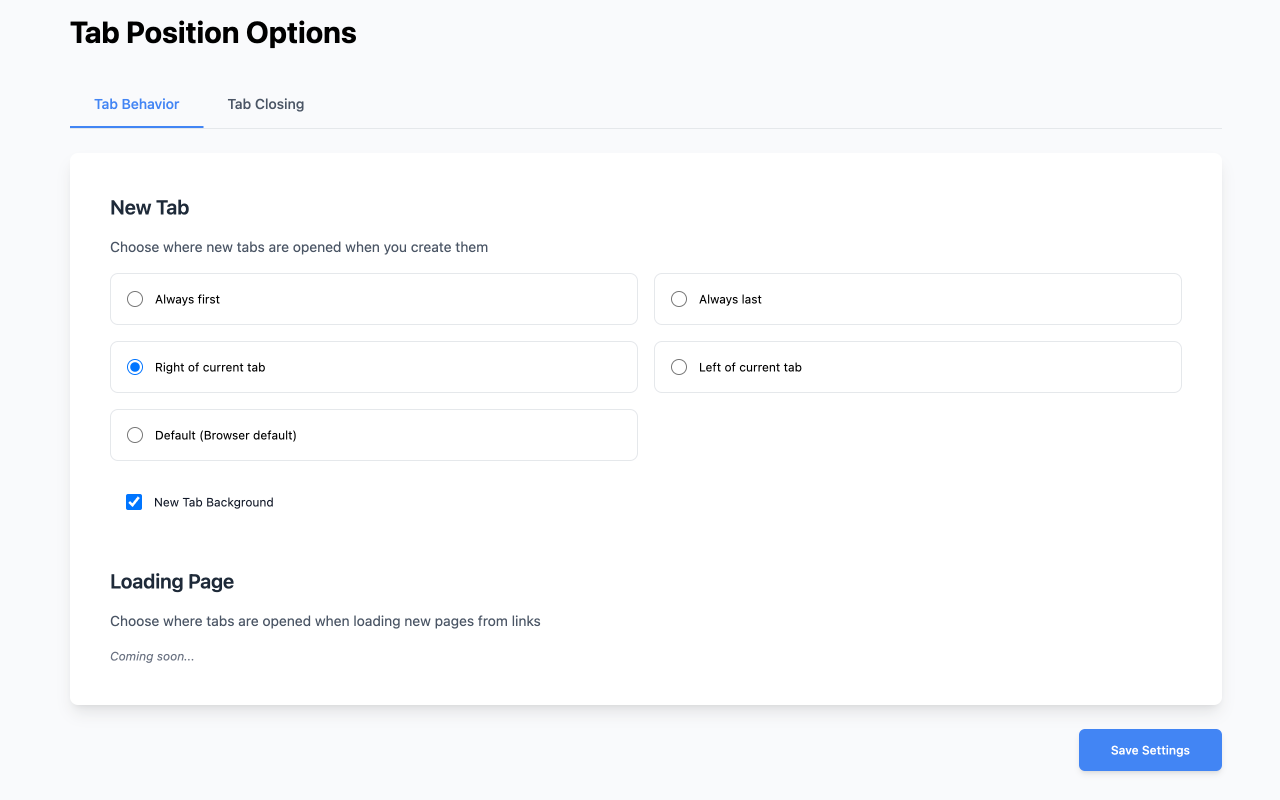
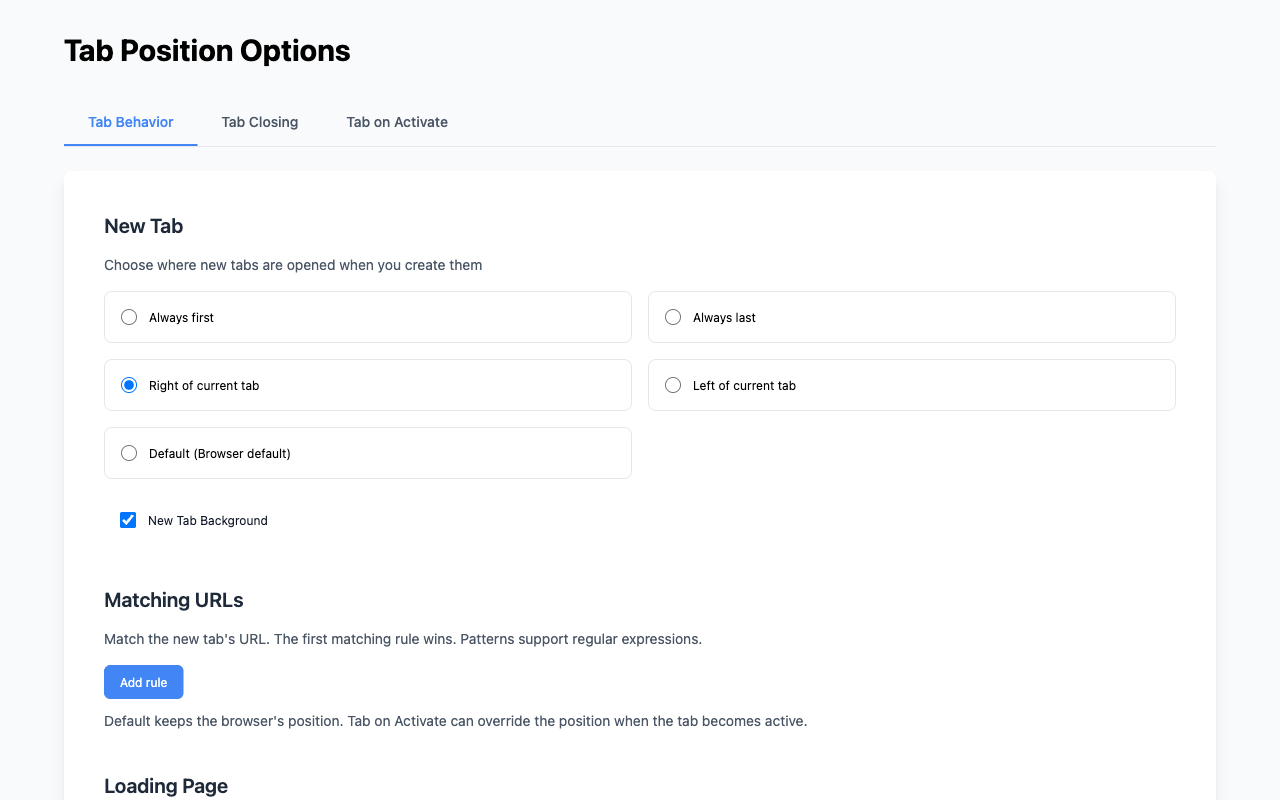
docs: refresh Chrome Web Store screenshots

diff --git a/CHROMEWEBSTORE.md b/CHROMEWEBSTORE.md
@@ -168,10 +168,16 @@ Dashboard uploads were observed; exact byte-for-byte identity with local files h
 | Asset | Local file / dimensions | Dashboard and preparation status |
 | --- | --- | --- |
 | Store icon | [public/icon-128.png](public/icon-128.png), 128×128 | Uploaded |
-| Screenshot 1 | [screenshot-1.png](store-assets/screenshots/screenshot-1.png), 1280×800 | Uploaded; review against the new options UI |
-| Screenshot 2 | [screenshot-2.png](store-assets/screenshots/screenshot-2.png), 1280×800 | Uploaded; review against the new options UI |
+| Screenshot 1 — New Tab | [screenshot-1.png](store-assets/screenshots/screenshot-1.png), 1280×800 | Updated locally; not uploaded. Opening position and background behavior |
+| Screenshot 2 — Tab Closing | [screenshot-2.png](store-assets/screenshots/screenshot-2.png), 1280×800 | Updated locally; not uploaded. Choosing the next active tab after closing |
+| Screenshot 3 — Tab on Activate | [screenshot-3.png](store-assets/screenshots/screenshot-3.png), 1280×800 | Created locally; not uploaded. Activation position |
+| Screenshot 4 — URL rules and pop-ups | [screenshot-4.png](store-assets/screenshots/screenshot-4.png), 1280×800 | Created locally; not uploaded. URL rules and pop-up exceptions with example.com patterns |
 | Small promo tile | [promotional-440x280.png](store-assets/promotional-440x280.png), 440×280 | Uploaded |
 | Marquee promo tile | Local source not identified | Uploaded; dashboard specifies 1400×560 |
+
+Upload screenshots 1–4 in the order above. All four are direct captures of 1280×800 regions of the English settings page at its original scale, without added headings, backgrounds, or rearrangement. They are verified as 24-bit RGB PNG without alpha. The settings shown are illustrative. The dashboard still contains the previous screenshots until these replacements are uploaded.
+
+[tab-behavior.png](store-assets/tab-behavior.png) is the separate 1280×1721 full-page image used in the READMEs; it is not a store screenshot.
 
 `store-assets/social-preview-1280x640.png` is 1280×640 and must not be assumed to be the uploaded 1400×560 marquee asset.
 
